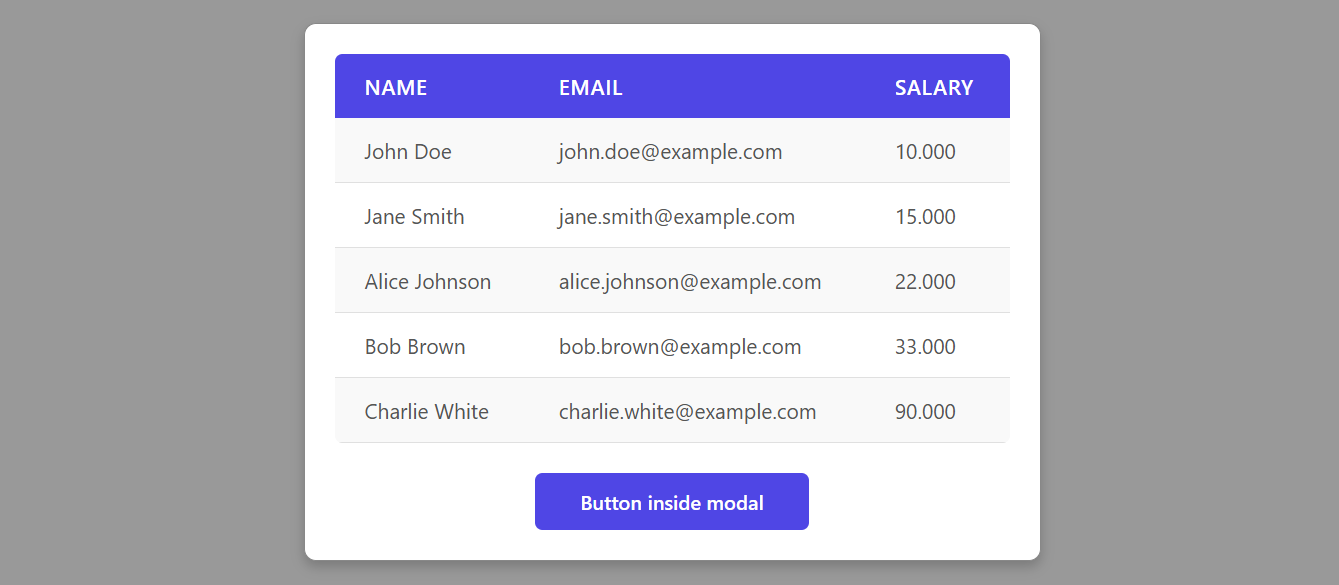
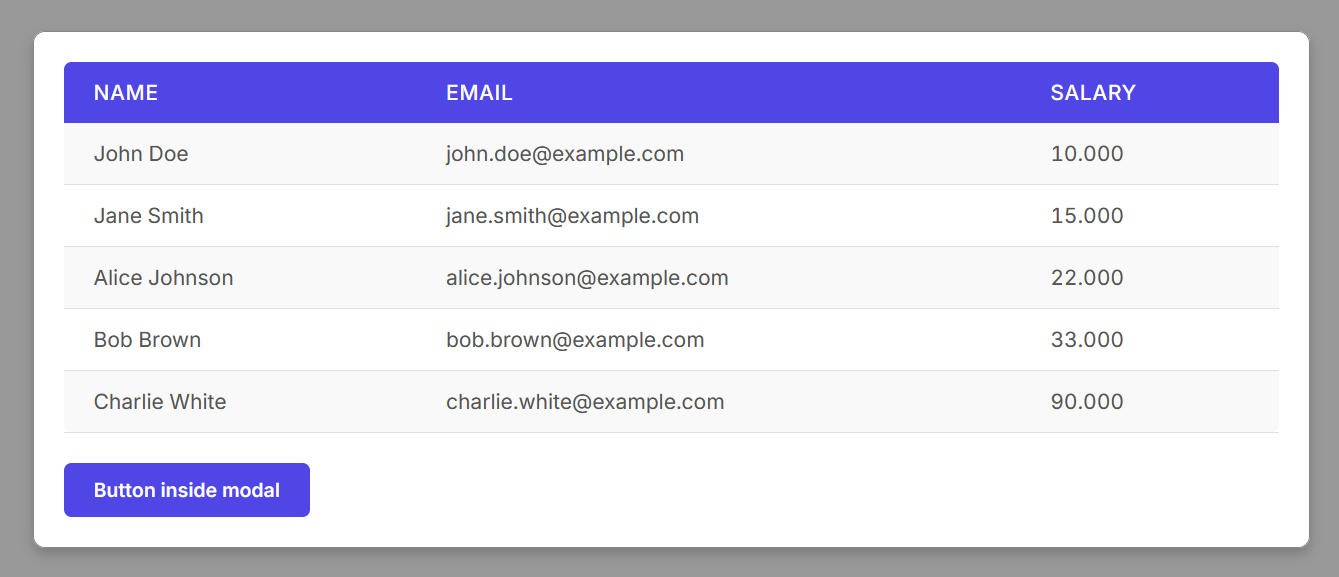
add slider

diff --git a/css/slider.css b/css/slider.css
@@ -1,0 +1,56 @@
+@font-face {
+    font-family: "Inter";
+    src: url("https://cdn.jsdelivr.net/npm/@fontsource/inter@5.1.0/files/inter-latin-400-normal.woff2") format("woff2");
+    font-weight: 400;
+    font-style: normal;
+  }
+  
+  :root {
+    --font-family: "Inter", sans-serif;
+    --primary-color: #4f46e5;
+  }
+
+.toggle-container {
+    display: flex;
+    align-items: center;
+    gap: 20px;
+}
+
+.toggle-switch {
+    position: relative;
+    width: 46px;
+    height: 21px;
+    background-color: #ccc;
+    border-radius: 50px;
+    cursor: pointer;
+    transition: background-color 0.3s ease;
+}
+
+.toggle-switch::before {
+    content: "";
+    position: absolute;
+    width: 17px;
+    height: 17px;
+    background-color: #fff;
+    border-radius: 50%;
+    top: 2px;
+    left: 2px;
+    transition: transform 0.3s ease;
+    box-shadow: 0 2px 4px rgba(0, 0, 0, 0.2);
+}
+
+.toggle-switch.active {
+    background-color: var(--primary-color);
+}
+    
+.toggle-switch.active::before {
+    transform: translateX(25px);
+}
+
+.label {
+    font-family: var(--font-family);
+    font-weight: 400;
+    font-size: 0.875rem;
+    color: #333;
+    margin-top: 1px;
+}

diff --git a/components/slider.js b/components/slider.js
@@ -1,0 +1,26 @@
+export class Slider {
+    constructor(text) {
+        this.htmlElement = document.createElement("div");
+        this.htmlElement.classList.add("toggle-container");
+
+        const toggleSwitch = document.createElement("div");
+        toggleSwitch.id = "toggle-switch";
+        toggleSwitch.classList.add("toggle-switch");
+
+        toggleSwitch.addEventListener('click', () => {
+            toggleSwitch.classList.toggle('active');
+        });
+
+        const span = document.createElement("span");
+        span.classList.add("label");
+        span.textContent = text;
+
+        this.htmlElement.appendChild(toggleSwitch);
+        this.htmlElement.appendChild(span);
+
+    }
+
+    show(targetElement) {
+        targetElement.appendChild(this.htmlElement);
+    }
+}

diff --git a/examples/simple/slider.html b/examples/simple/slider.html
@@ -1,0 +1,23 @@
+<!DOCTYPE html>
+<html lang="en">
+  <head>
+    <meta charset="UTF-8" />
+    <meta name="viewport" content="width=device-width, initial-scale=1.0" />
+    <title>Simple Javascript Library</title>
+
+    <link rel="stylesheet" href="/css/slider.css" />
+  </head>
+  <body>
+    <div id="slider-example"></div>
+
+    <script type="module">
+        import { Slider } from "/components/slider.js";
+
+        const slider = new Slider("Slider label");
+
+        const targetElement = document.querySelector("#slider-example");
+
+        slider.show(targetElement);
+    </script>
+  </body>
+</html>

diff --git a/README.md b/README.md
@@ -175,28 +175,44 @@ const targetElement = document.querySelector("#textbox-example");
 textbox.show(targetElement);
 ```
 
+## Slider
+
+![Class diagram](images/slider.png)
+
+```javascript
+import { Slider } from "/components/slider.js";
+
+const slider = new Slider("Slider label");
+
+const targetElement = document.querySelector("#slider-example");
+
+slider.show(targetElement);
+```
+
 ## CDN
 
 ### JS
 
-[https://cdn.jsdelivr.net/gh/gartenkralle/simple-components@1.1.8/components/button.js](https://cdn.jsdelivr.net/gh/gartenkralle/simple-components@1.1.8/components/button.js)
-[https://cdn.jsdelivr.net/gh/gartenkralle/simple-components@1.1.8/components/softbutton.js](https://cdn.jsdelivr.net/gh/gartenkralle/simple-components@1.1.8/components/softbutton.js)
-[https://cdn.jsdelivr.net/gh/gartenkralle/simple-components@1.1.8/components/dropdown.js](https://cdn.jsdelivr.net/gh/gartenkralle/simple-components@1.1.8/components/dropdown.js)
-[https://cdn.jsdelivr.net/gh/gartenkralle/simple-components@1.1.8/components/table.js](https://cdn.jsdelivr.net/gh/gartenkralle/simple-components@1.1.8/components/table.js)
-[https://cdn.jsdelivr.net/gh/gartenkralle/simple-components@1.1.8/components/modal.js](https://cdn.jsdelivr.net/gh/gartenkralle/simple-components@1.1.8/components/modal.js)
-[https://cdn.jsdelivr.net/gh/gartenkralle/simple-components@1.1.8/components/tab.js](https://cdn.jsdelivr.net/gh/gartenkralle/simple-components@1.1.8/components/tab.js)
-[https://cdn.jsdelivr.net/gh/gartenkralle/simple-components@1.1.8/components/textarea.js](https://cdn.jsdelivr.net/gh/gartenkralle/simple-components@1.1.8/components/textarea.js)
-[https://cdn.jsdelivr.net/gh/gartenkralle/simple-components@1.1.8/components/radiogroup.js](https://cdn.jsdelivr.net/gh/gartenkralle/simple-components@1.1.8/components/radiogroup.js)
-[https://cdn.jsdelivr.net/gh/gartenkralle/simple-components@1.1.8/components/textbox.js](https://cdn.jsdelivr.net/gh/gartenkralle/simple-components@1.1.8/components/textbox.js)
+[https://cdn.jsdelivr.net/gh/gartenkralle/simple-components@1.1.9/components/button.js](https://cdn.jsdelivr.net/gh/gartenkralle/simple-components@1.1.9/components/button.js)
+[https://cdn.jsdelivr.net/gh/gartenkralle/simple-components@1.1.9/components/softbutton.js](https://cdn.jsdelivr.net/gh/gartenkralle/simple-components@1.1.9/components/softbutton.js)
+[https://cdn.jsdelivr.net/gh/gartenkralle/simple-components@1.1.9/components/dropdown.js](https://cdn.jsdelivr.net/gh/gartenkralle/simple-components@1.1.9/components/dropdown.js)
+[https://cdn.jsdelivr.net/gh/gartenkralle/simple-components@1.1.9/components/table.js](https://cdn.jsdelivr.net/gh/gartenkralle/simple-components@1.1.9/components/table.js)
+[https://cdn.jsdelivr.net/gh/gartenkralle/simple-components@1.1.9/components/modal.js](https://cdn.jsdelivr.net/gh/gartenkralle/simple-components@1.1.9/components/modal.js)
+[https://cdn.jsdelivr.net/gh/gartenkralle/simple-components@1.1.9/components/tab.js](https://cdn.jsdelivr.net/gh/gartenkralle/simple-components@1.1.9/components/tab.js)
+[https://cdn.jsdelivr.net/gh/gartenkralle/simple-components@1.1.9/components/textarea.js](https://cdn.jsdelivr.net/gh/gartenkralle/simple-components@1.1.9/components/textarea.js)
+[https://cdn.jsdelivr.net/gh/gartenkralle/simple-components@1.1.9/components/radiogroup.js](https://cdn.jsdelivr.net/gh/gartenkralle/simple-components@1.1.9/components/radiogroup.js)
+[https://cdn.jsdelivr.net/gh/gartenkralle/simple-components@1.1.9/components/textbox.js](https://cdn.jsdelivr.net/gh/gartenkralle/simple-components@1.1.9/components/textbox.js)
+[https://cdn.jsdelivr.net/gh/gartenkralle/simple-components@1.1.9/components/slider.js](https://cdn.jsdelivr.net/gh/gartenkralle/simple-components@1.1.9/components/slider.js)
 
 ### CSS
 
-[https://cdn.jsdelivr.net/gh/gartenkralle/simple-components@1.1.8/css/button.css](https://cdn.jsdelivr.net/gh/gartenkralle/simple-components@1.1.8/css/button.css)
-[https://cdn.jsdelivr.net/gh/gartenkralle/simple-components@1.1.8/css/softbutton.css](https://cdn.jsdelivr.net/gh/gartenkralle/simple-components@1.1.8/css/softbutton.css)
-[https://cdn.jsdelivr.net/gh/gartenkralle/simple-components@1.1.8/css/dropdown.css](https://cdn.jsdelivr.net/gh/gartenkralle/simple-components@1.1.8/css/dropdown.css)
-[https://cdn.jsdelivr.net/gh/gartenkralle/simple-components@1.1.8/css/table.css](https://cdn.jsdelivr.net/gh/gartenkralle/simple-components@1.1.8/css/table.css)
-[https://cdn.jsdelivr.net/gh/gartenkralle/simple-components@1.1.8/css/modal.css](https://cdn.jsdelivr.net/gh/gartenkralle/simple-components@1.1.8/css/modal.css)
-[https://cdn.jsdelivr.net/gh/gartenkralle/simple-components@1.1.8/css/tab.css](https://cdn.jsdelivr.net/gh/gartenkralle/simple-components@1.1.8/css/tab.css)
-[https://cdn.jsdelivr.net/gh/gartenkralle/simple-components@1.1.8/css/textarea.css](https://cdn.jsdelivr.net/gh/gartenkralle/simple-components@1.1.8/css/textarea.css)
-[https://cdn.jsdelivr.net/gh/gartenkralle/simple-components@1.1.8/css/radiogroup.css](https://cdn.jsdelivr.net/gh/gartenkralle/simple-components@1.1.8/css/radiogroup.css)
-[https://cdn.jsdelivr.net/gh/gartenkralle/simple-components@1.1.8/css/textbox.css](https://cdn.jsdelivr.net/gh/gartenkralle/simple-components@1.1.8/css/textbox.css)
+[https://cdn.jsdelivr.net/gh/gartenkralle/simple-components@1.1.9/css/button.css](https://cdn.jsdelivr.net/gh/gartenkralle/simple-components@1.1.9/css/button.css)
+[https://cdn.jsdelivr.net/gh/gartenkralle/simple-components@1.1.9/css/softbutton.css](https://cdn.jsdelivr.net/gh/gartenkralle/simple-components@1.1.9/css/softbutton.css)
+[https://cdn.jsdelivr.net/gh/gartenkralle/simple-components@1.1.9/css/dropdown.css](https://cdn.jsdelivr.net/gh/gartenkralle/simple-components@1.1.9/css/dropdown.css)
+[https://cdn.jsdelivr.net/gh/gartenkralle/simple-components@1.1.9/css/table.css](https://cdn.jsdelivr.net/gh/gartenkralle/simple-components@1.1.9/css/table.css)
+[https://cdn.jsdelivr.net/gh/gartenkralle/simple-components@1.1.9/css/modal.css](https://cdn.jsdelivr.net/gh/gartenkralle/simple-components@1.1.9/css/modal.css)
+[https://cdn.jsdelivr.net/gh/gartenkralle/simple-components@1.1.9/css/tab.css](https://cdn.jsdelivr.net/gh/gartenkralle/simple-components@1.1.9/css/tab.css)
+[https://cdn.jsdelivr.net/gh/gartenkralle/simple-components@1.1.9/css/textarea.css](https://cdn.jsdelivr.net/gh/gartenkralle/simple-components@1.1.9/css/textarea.css)
+[https://cdn.jsdelivr.net/gh/gartenkralle/simple-components@1.1.9/css/radiogroup.css](https://cdn.jsdelivr.net/gh/gartenkralle/simple-components@1.1.9/css/radiogroup.css)
+[https://cdn.jsdelivr.net/gh/gartenkralle/simple-components@1.1.9/css/textbox.css](https://cdn.jsdelivr.net/gh/gartenkralle/simple-components@1.1.9/css/textbox.css)
+[https://cdn.jsdelivr.net/gh/gartenkralle/simple-components@1.1.9/css/slider.css](https://cdn.jsdelivr.net/gh/gartenkralle/simple-components@1.1.9/css/slider.css)
